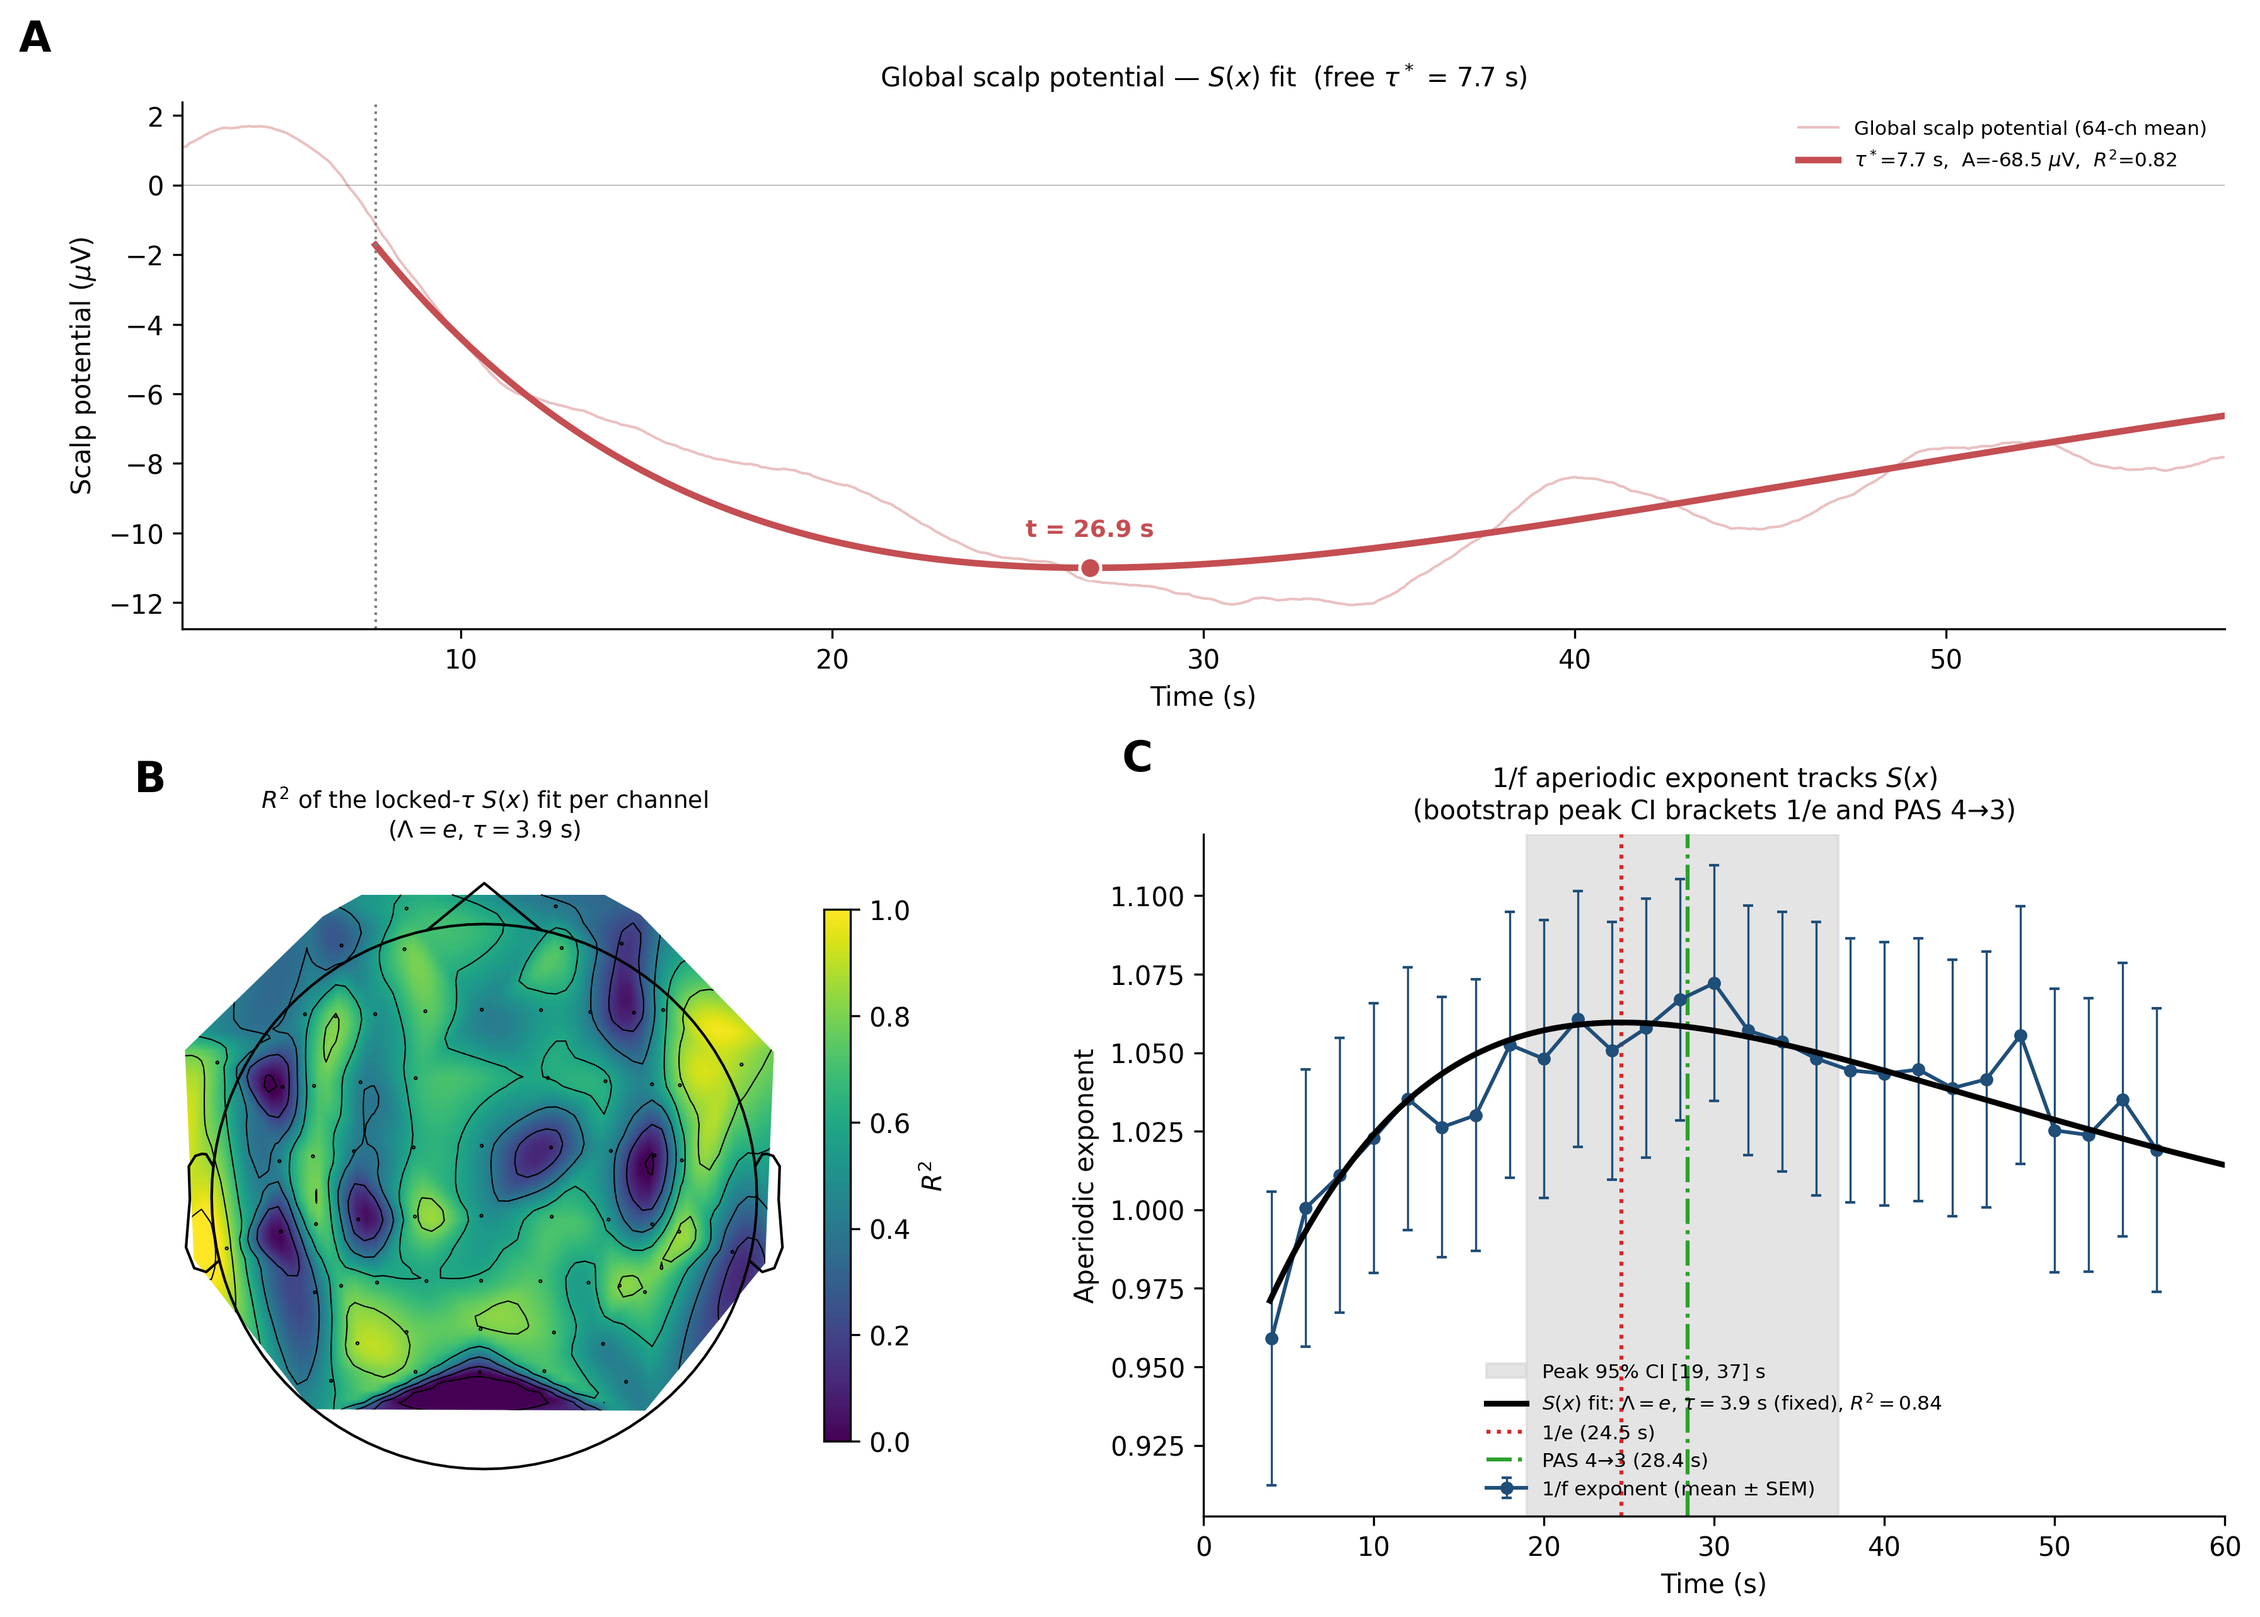
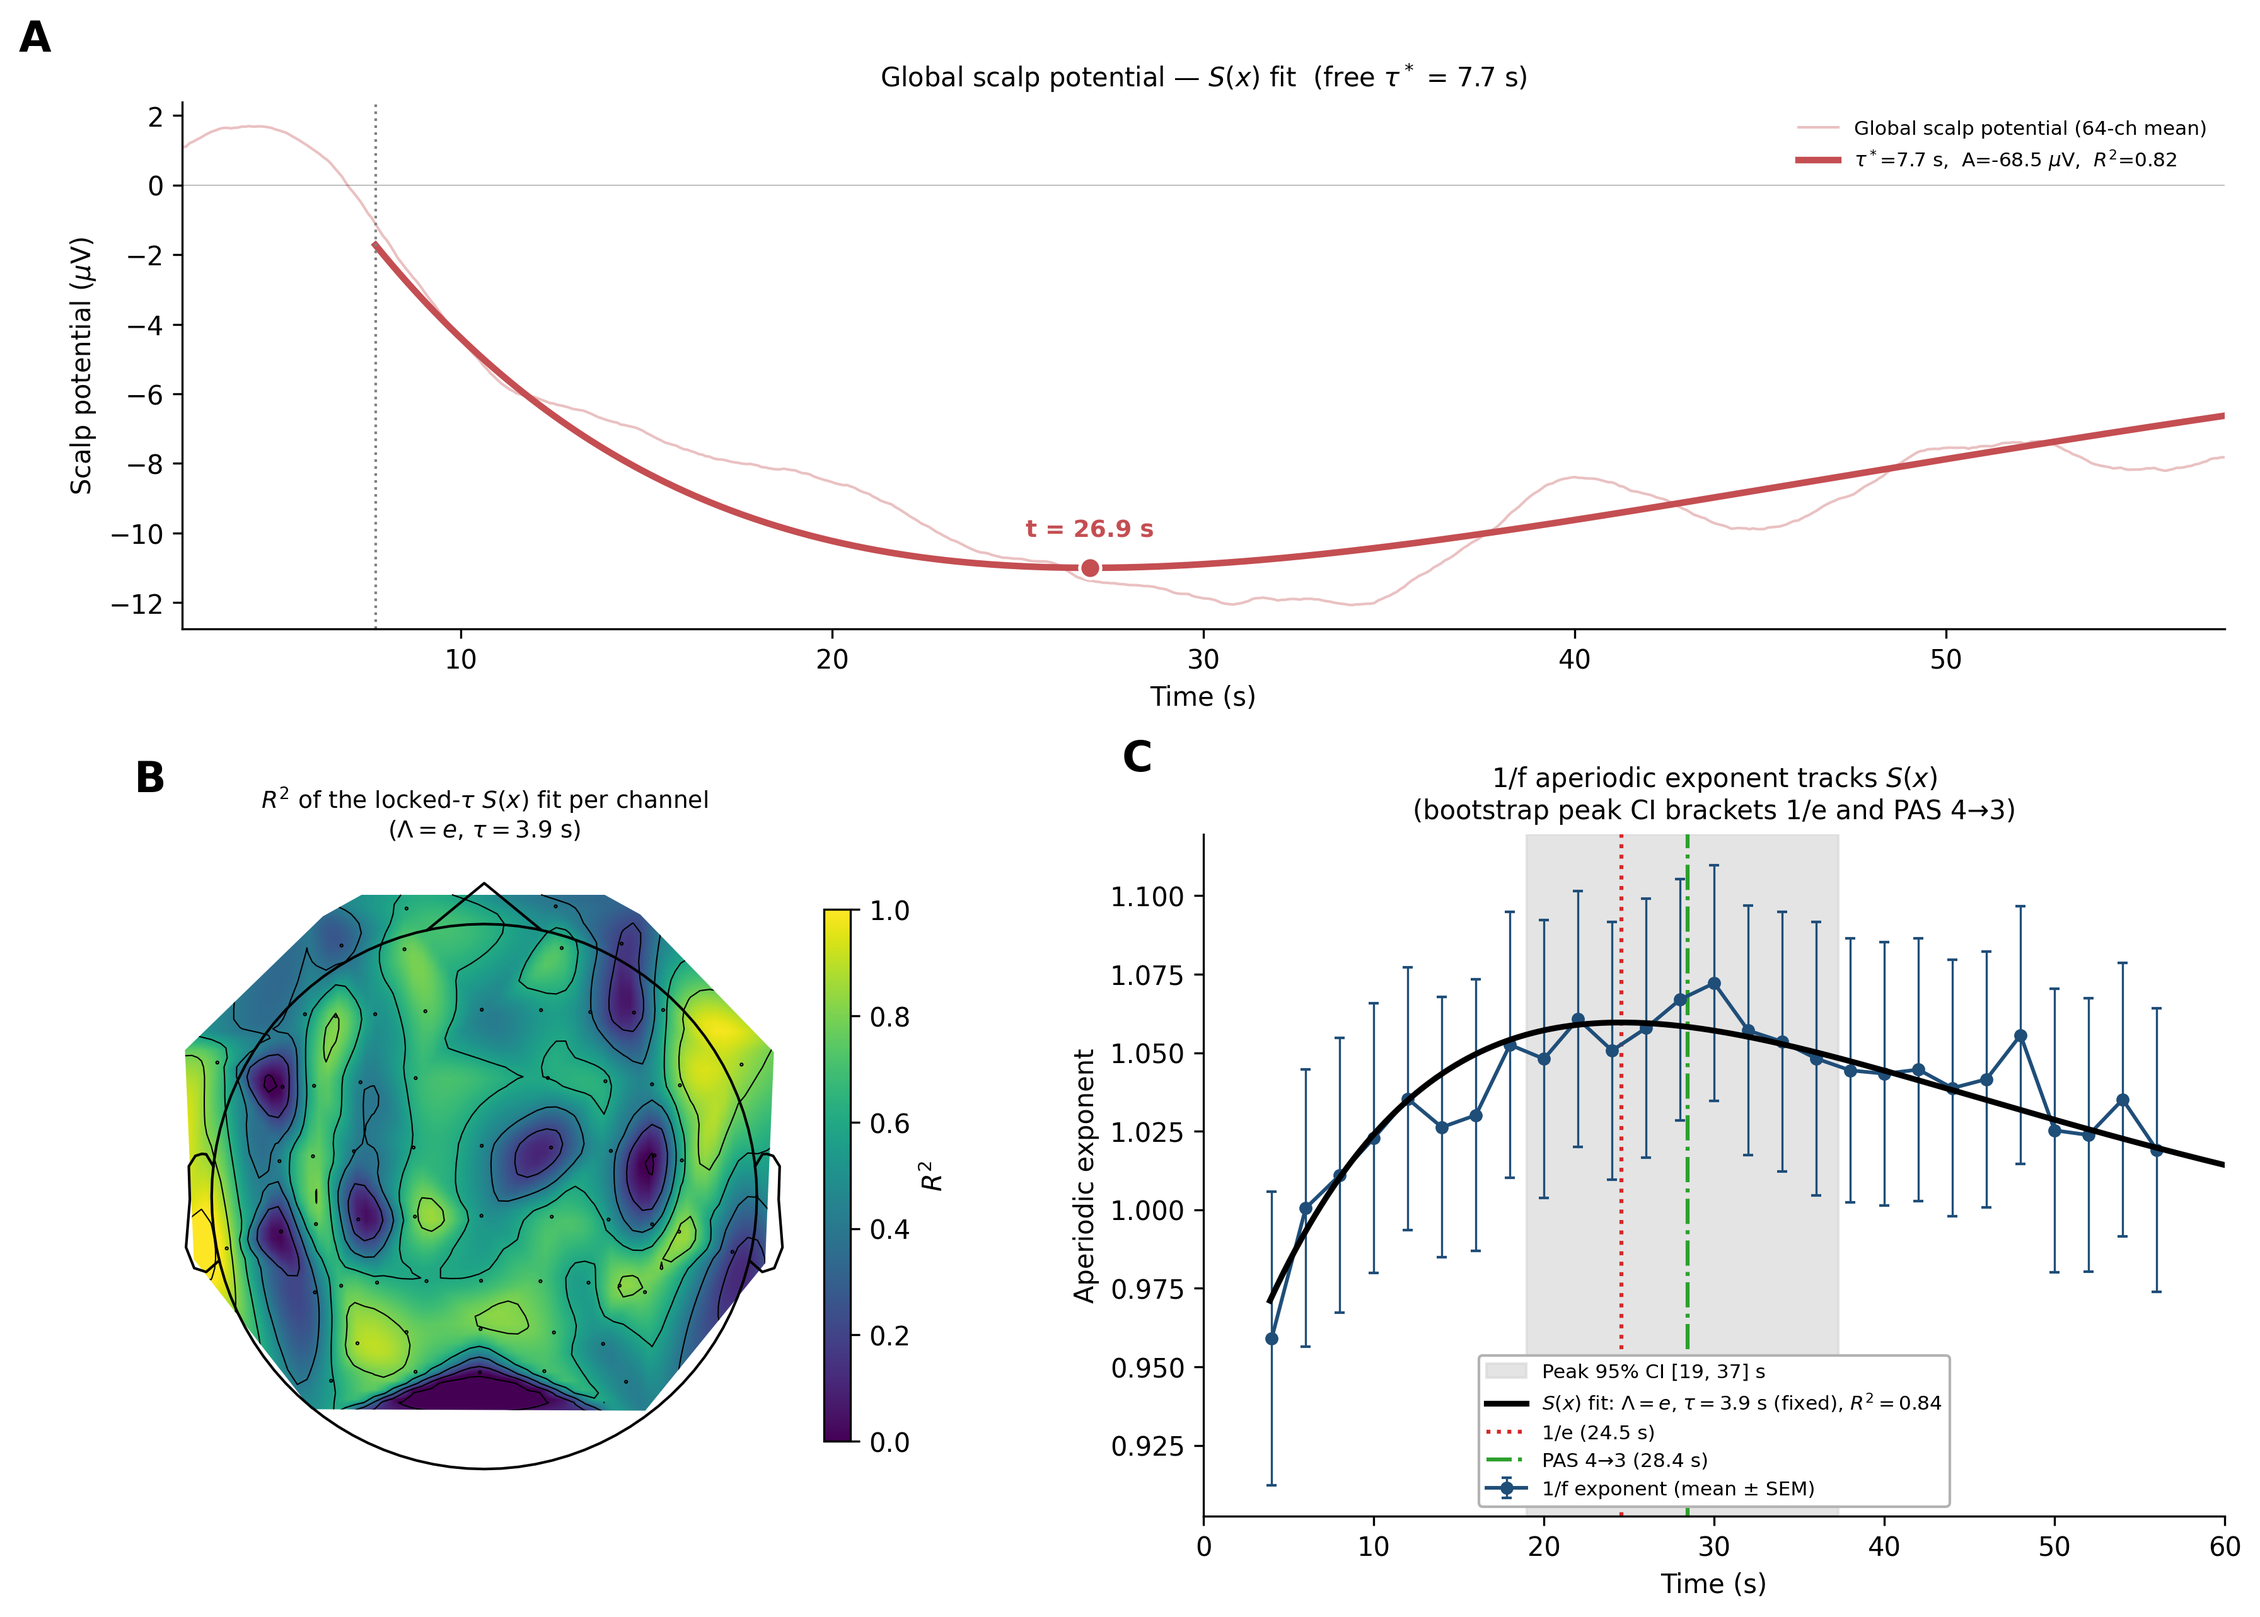
Fig 4C (neural exponent): boxed legend with opaque white background
Panel C legend was drawn frameon=False directly over the CI band and the 1/e + PAS reference verticals, making it hard to read (Tom's note). Set frameon=True with facecolor=white, edgecolor=0.7, framealpha=1.0, zorder=5 so the lower-centre legend sits in an opaque box. Regenerated Figure2_Neural.{pdf,png}; all numbers reproduce exactly (R2=0.845, peak CI [19,37], A=-68.55 uV) — presentation-only change.

Changed region(s): [[0.6561, 0.8106, 0.8123, 0.9353]]

diff --git a/code/analysis/plotFigure2_Neural.py b/code/analysis/plotFigure2_Neural.py
@@ -353,7 +353,10 @@ ax_d.set_ylabel('Aperiodic exponent')
 ax_d.set_title(r'1/f aperiodic exponent tracks $S(x)$' '\n'
                rf'(bootstrap peak CI brackets 1/e and PAS 4→3)',
                pad=6, fontsize=10)
-ax_d.legend(loc='lower center', fontsize=7.5, frameon=False)
+# Boxed legend with an opaque white background: the lower-centre legend sits
+# over the CI band and reference verticals, so an opaque box keeps it legible.
+ax_d.legend(loc='lower center', fontsize=7.5, frameon=True,
+            facecolor='white', edgecolor='0.7', framealpha=1.0).set_zorder(5)
 
 # ---- Panel letters ----
 # No baked-in super-title: the figure number and title are supplied by the
